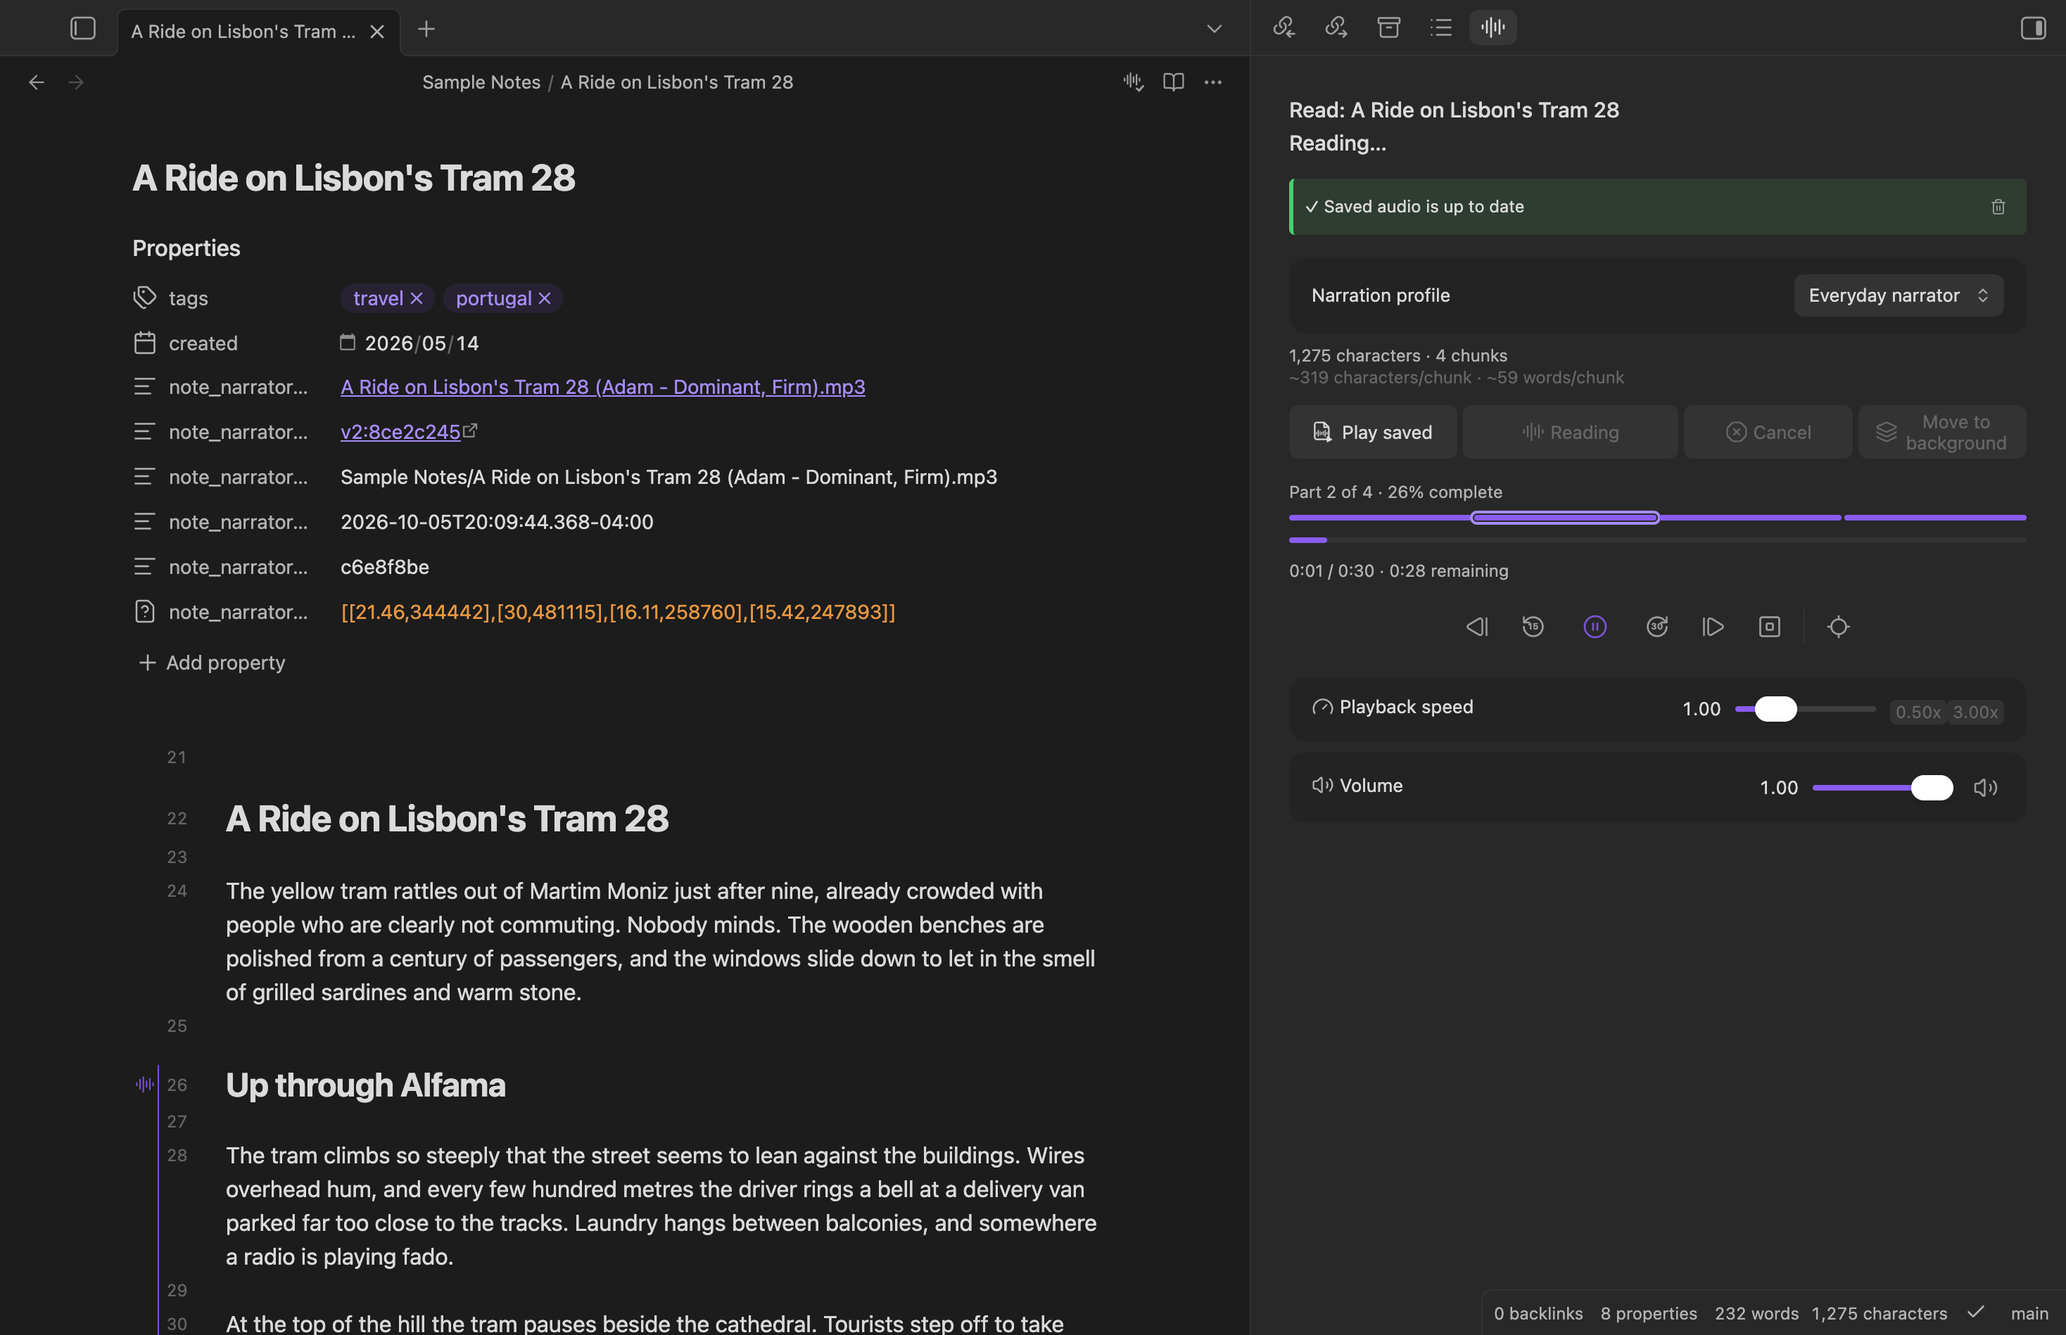
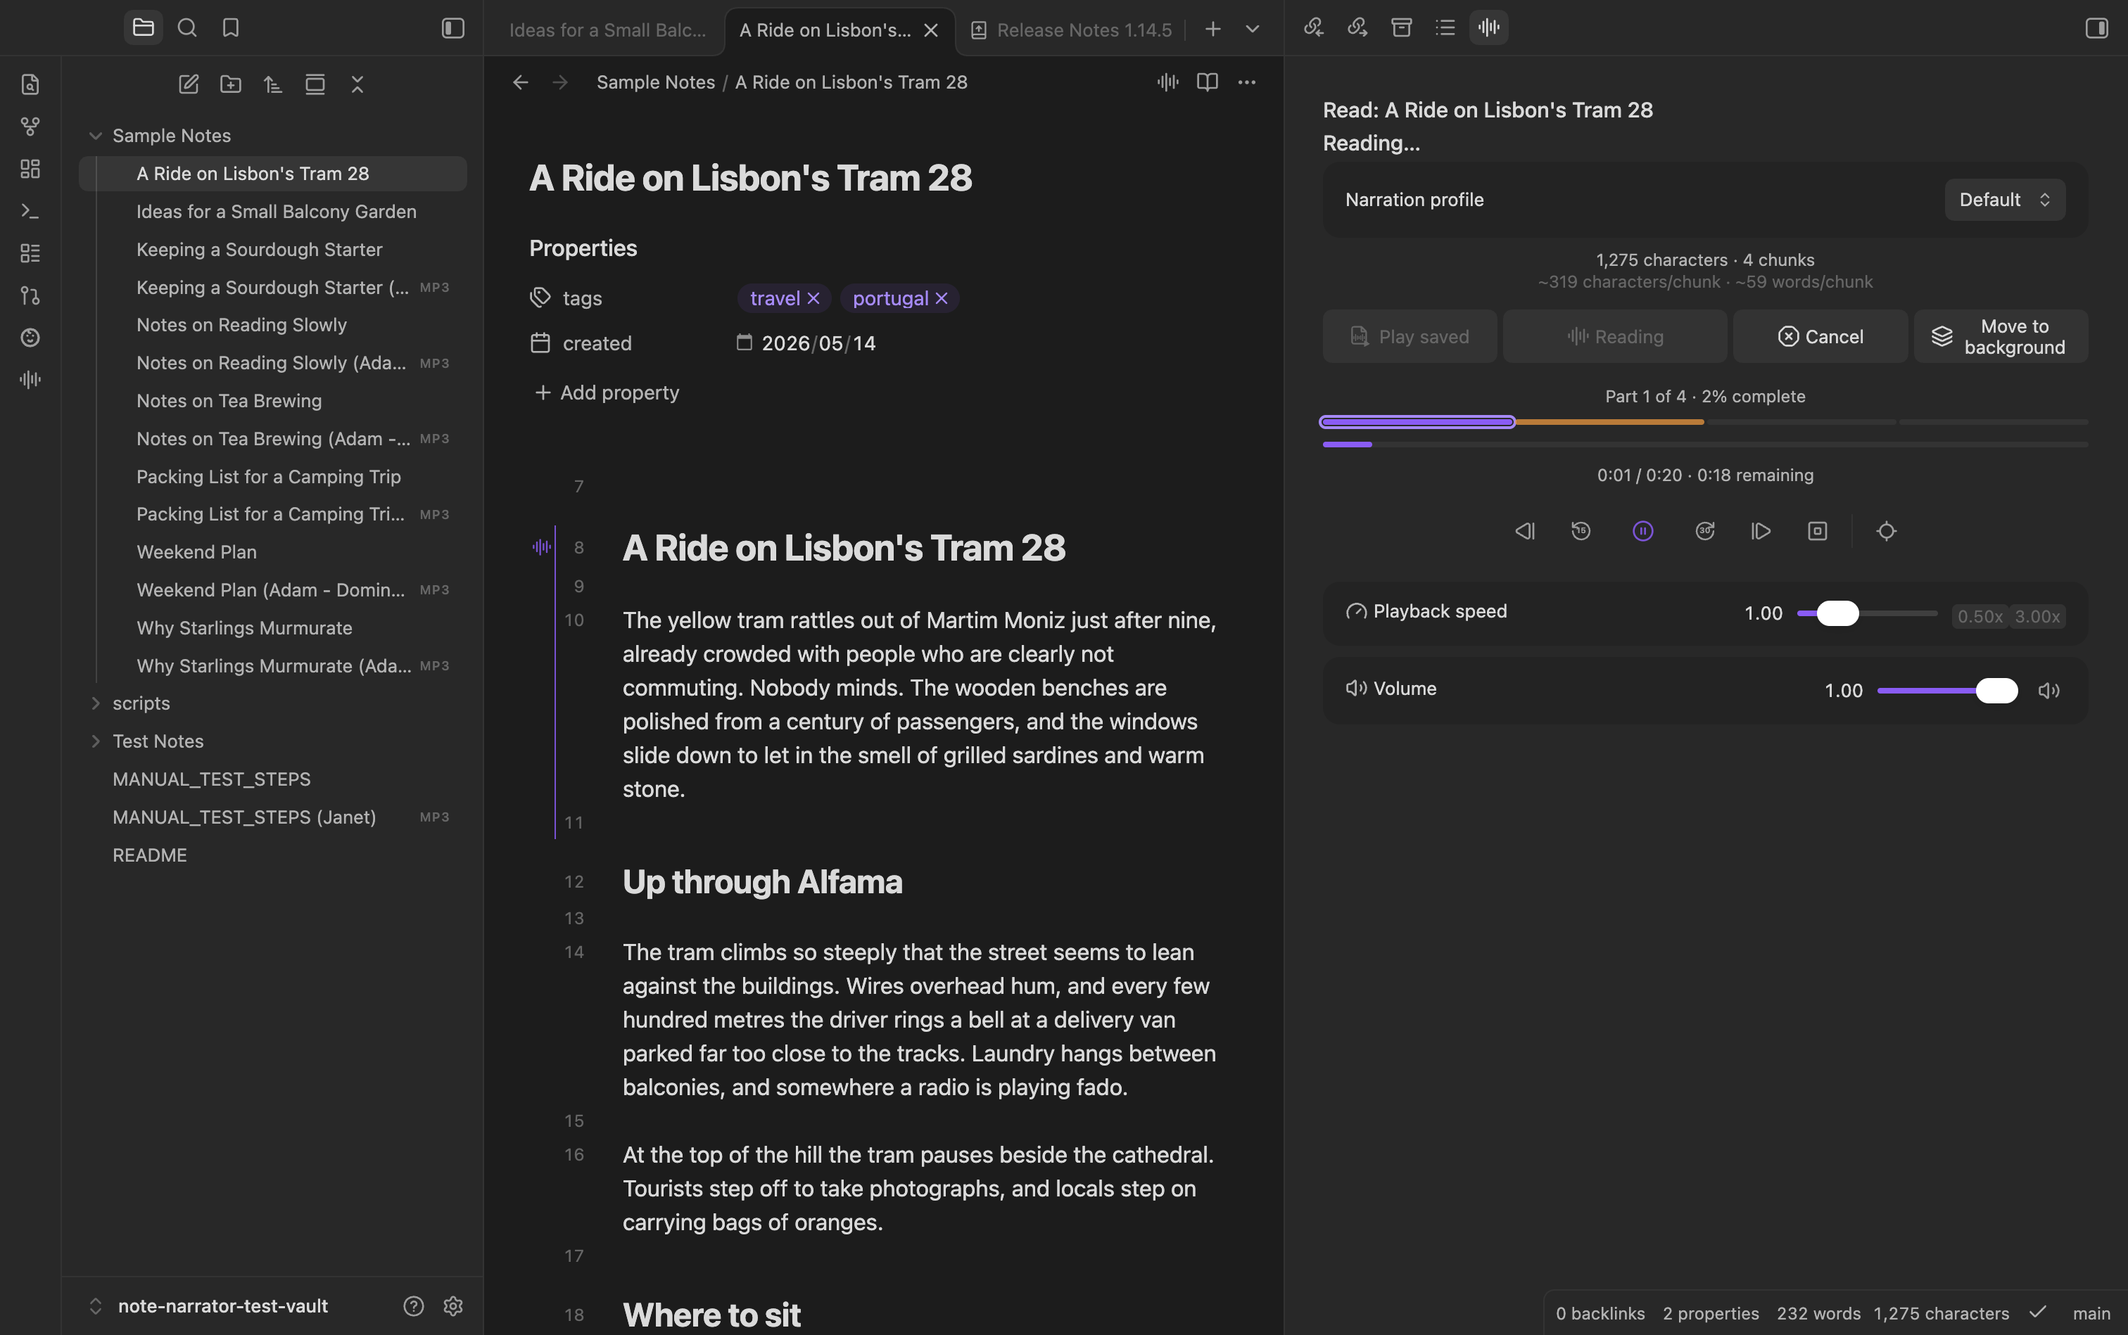
Update docs for 1.1.6
Appearance Settings, Settings Overview and The Panel: the Center panel text
setting. Reading a Note: the title is never read on its own, including
with a comment or rule before the first heading. Saving Audio, General
Settings, Known Limitations, Troubleshooting and Frontmatter Properties:
property edits only mark audio outdated with Read note properties on, and
audio saved before 1.1.6 keeps the old check until regenerated. Roadmap:
1.1.6. Retake the Appearance settings, idle panel, reading panel,
generation bar and hero screenshots for the centered text and new row.

diff --git a/Note Narrator/Using Note Narrator/Saving Audio.md b/Note Narrator/Using Note Narrator/Saving Audio.md
@@ -7,8 +7,8 @@ tags:
   - saved-audio
 publish: true
 permalink: note-narrator/using/saving-audio
-plugin-version: 1.1.5
-updated: 2026-10-09
+plugin-version: 1.1.6
+updated: 2026-10-26
 ---
 
 # Saving Audio
@@ -41,8 +41,11 @@ The hash lets the panel tell you whether the audio still matches the note:
 > [!warning] Saved audio was made with a different narrator
 > The note has not changed, but the selected narrator profile's voice settings differ from the ones the audio was made with. **Read** becomes **Regenerate with new narrator**. Play saved still plays the old audio.
 
-> [!note] Everything counts
-> The hash covers the note's full content, even if you only read a selection, so any edit marks the audio outdated. Note Narrator's own properties are always excluded. Add other properties (for example a last-modified timestamp another plugin updates) to **Extra properties to exclude from staleness hashing**.
+> [!note] What counts as a change
+> The hash covers the note's full text, even if you only read a selection, so any edit to it marks the audio outdated. Properties only count when **Read note properties** is on (for the selected narrator profile), since otherwise they are never heard. Note Narrator's own properties are always excluded. With Read note properties on, add other properties (for example a last-modified timestamp another plugin updates) to **Extra properties to exclude from staleness hashing**.
+
+> [!info] Audio saved before 1.1.6
+> Audio saved by 1.1.0 to 1.1.5 is still checked the way it was saved, so a property edit still marks it outdated even with Read note properties off. Once it's regenerated, property edits stop counting.
 
 ![[panel-saved-status.png]]
 
@@ -51,7 +54,7 @@ The hash lets the panel tell you whether the audio still matches the note:
 **Play saved** plays the file immediately with no generation. Previous/Next part, highlighting and scroll-to-current also work because the saved chunk durations let the file be sliced back into parts.
 
 > [!caution] Only while up to date
-> Part navigation and highlighting during Play saved need the note to be up to date, and the chunk count to still match. If reading or chunking settings changed since the audio was made (chunker style, heading depth, skip patterns, quick start, model), the file plays as one piece. Regenerate to fix it.
+> Part navigation and highlighting during Play saved need the note to be up to date, and the chunk count to still match. If reading or chunking settings changed since the audio was made (chunker style, heading depth, skip patterns, quick start, model), the file plays as one piece. The same happens when an update changes how a note is split: since 1.1.6, a note with only a comment or a `---` line before its first heading reads its title with the first section. Regenerate to fix it.
 
 ## Regenerating
 

diff --git a/Note Narrator/Roadmap/Roadmap.md b/Note Narrator/Roadmap/Roadmap.md
@@ -6,8 +6,8 @@ tags:
   - roadmap
 publish: true
 permalink: note-narrator/roadmap
-plugin-version: 1.1.5
-updated: 2026-10-09
+plugin-version: 1.1.6
+updated: 2026-10-26
 ---
 
 # Roadmap
@@ -17,6 +17,7 @@ updated: 2026-10-09
 
 ## Recently shipped
 
+- **1.1.6: fixes and centered panel text.** The note title is never read on its own as the first part anymore, so playback no longer pauses after it. Before, that happened when only a comment or a `---` line came before the first heading, when the first section was skipped, or when quick start's first part had room for nothing but the title. With **Read note properties** off, editing a property no longer marks saved audio or background notes as outdated, since properties are not heard. A new **Center panel text** setting (on by default) centers the panel's note stats, progress line and time readout. See [[Appearance Settings]].
 - **1.1.5: fixes and disclosure.** Background notes edited since they were generated, or made with another narrator, are marked **Outdated** on their card. A new **Protect audio shared with copied notes** setting (on by default) controls the check that keeps a copied note from overwriting or trashing the original's audio; it's the only time Note Narrator looks at other notes, and it's now described in [[Privacy and Network Use]]. Every dropdown marks its default option, ElevenLabs error messages are kept short, and a development-only dependency was updated for a security advisory.
 - **1.1.4: fixes.** Edit a note while it's being read, or play its outdated saved audio, and **Read** now offers **Regenerate** instead of staying a disabled "Reading". It also comes back as **Read** if you delete the saved audio while it plays. Only an `.mp3` counts as a note's saved audio, so an edited audio path property can no longer get another file overwritten or trashed, and a copy of a note no longer replaces or trashes the audio it shares with the original. Background notes whose audio is saved are freed from memory and play from the vault, and unsaved finished notes are capped by the new **Unsaved finished notes kept in memory** setting (see [[Performance Settings]]). Notes saved with Windows (CRLF) line endings no longer have their properties read aloud or their highlight drift, a property edited just before Read is spoken with its new value, and audio saved by **Auto-generate on open** with quick start on keeps its parts for Previous/Next instead of playing as one piece.
 - **1.1.3: fixes.** Deleting a note while its audio file is being written no longer leaves that file behind or shows a "Failed to save audio file" notice. If you disable the plugin or select **Read** at that moment instead, the finished audio is still saved and linked. Also more automated tests for the panel, the plugin's commands, and folders being moved or deleted.

diff --git a/Note Narrator/Reference/Frontmatter Properties.md b/Note Narrator/Reference/Frontmatter Properties.md
@@ -7,8 +7,8 @@ tags:
   - saved-audio
 publish: true
 permalink: note-narrator/reference/frontmatter-properties
-plugin-version: 1.1.4
-updated: 2026-10-08
+plugin-version: 1.1.6
+updated: 2026-10-26
 ---
 
 # Frontmatter Properties
@@ -18,7 +18,7 @@ When **Link saved audio in the note** is on, Note Narrator writes six properties
 | Property | Contains |
 | --- | --- |
 | `note_narrator_audio` | A wikilink to the saved `.mp3`, so Obsidian shows and tracks it |
-| `note_narrator_audio_hash` | Hash of the note's content when the audio was made, used for [[Saving Audio#Linking and staleness\|staleness]] |
+| `note_narrator_audio_hash` | Hash of the note's content when the audio was made, used for [[Saving Audio#Linking and staleness\|staleness]]. Its prefix is the hash version (`v3:` since 1.1.6), so older audio keeps being checked the way it was saved |
 | `note_narrator_audio_path` | Raw vault path of the file, used internally. Only an `.mp3` path counts: anything else is treated as no saved audio |
 | `note_narrator_audio_timestamp` | When the audio was generated |
 | `note_narrator_audio_voice` | A fingerprint (hash) of the narrator profile's voice settings that made the audio. Notes saved before 0.17 hold the raw ElevenLabs voice ID here, which still counts as a match for that voice |
@@ -29,7 +29,7 @@ When **Link saved audio in the note** is on, Note Narrator writes six properties
 ```yaml
 ---
 note_narrator_audio: "[[My Note (Rachel).mp3]]"
-note_narrator_audio_hash: 4ac88baf
+note_narrator_audio_hash: v3:4ac88baf
 note_narrator_audio_path: Notes/My Note (Rachel).mp3
 note_narrator_audio_timestamp: 2026-09-12T16:24:48.902-04:00
 note_narrator_audio_voice: 9c1f03ab

diff --git a/Note Narrator/Settings/General Settings.md b/Note Narrator/Settings/General Settings.md
@@ -7,8 +7,8 @@ tags:
   - reading
 publish: true
 permalink: note-narrator/settings/general
-plugin-version: 1.1.0
-updated: 2026-10-05
+plugin-version: 1.1.6
+updated: 2026-10-26
 ---
 
 # General Settings
@@ -28,7 +28,7 @@ With **Skip Markdown comments** off, the two comment options below it are greyed
 | **Read selection instead of whole note** | Enabled | never | With a text selection active, reads only the selection |
 | **Read note title** | Enabled | never | Speaks the note's title before its content |
 | **Skip title when it repeats the first heading** | Enabled | never | With Read note title on, skips the title anyway when it exactly matches the note's first heading (any level), so it is not spoken twice. The heading is still read as part of the body |
-| **Read note properties** | Disabled | never | Speaks "properties", each key and value, then "content", before the body. Not used for a selection |
+| **Read note properties** | Disabled | never | Speaks "properties", each key and value, then "content", before the body. Not used for a selection. Also decides whether editing a property marks saved audio outdated (see [[Saving Audio#Linking and staleness]]) |
 | **Skip Markdown comments** | Enabled | never | Strips Obsidian comments (`%% like this %%`) before reading |
 | **Don't read comment delimiter symbols** | Enabled | Skip Markdown comments is on | Never reads the raw `%%` markup aloud, only the text between |
 | **Announce comments as "Comment: ..."** | Enabled | Skip Markdown comments is on | Prefixes a comment's text with "Comment:" |

diff --git a/Note Narrator/Reference/Known Limitations.md b/Note Narrator/Reference/Known Limitations.md
@@ -7,8 +7,8 @@ tags:
   - limitations
 publish: true
 permalink: note-narrator/reference/known-limitations
-plugin-version: 1.1.5
-updated: 2026-10-09
+plugin-version: 1.1.6
+updated: 2026-10-26
 ---
 
 # Known Limitations
@@ -26,7 +26,7 @@ Things that do not work the way you might expect yet. Many have a planned fix on
 
 ## Saved audio
 
-- **Staleness is whole-note.** The hash covers the full note, so editing anything, even outside what was read (for example after reading a selection), marks the audio outdated.
+- **Staleness is whole-note.** The hash covers the note's full text, so editing anything, even outside what was read (for example after reading a selection), marks the audio outdated. Properties only count with **Read note properties** on, except for audio saved before 1.1.6, which counts them until it's regenerated.
 - **Replace keeps the old filename.** With "Replace existing file", a narrator change keeps the original filename (with the old voice name in brackets) and only replaces the contents.
 - **Multi-part files are concatenated bytes.** Chunks are joined without re-muxing the MP3 stream. This works with ElevenLabs output but is not strictly spec-correct MP3 concatenation.
 - **Part navigation can fall back.** During Play saved, if chunk-affecting settings changed since the audio was made, or the byte lengths do not add up, the file plays as a single non-navigable piece even though the note still says "up to date". Regenerate to fix it.

diff --git a/Note Narrator/Using Note Narrator/Reading a Note.md b/Note Narrator/Using Note Narrator/Reading a Note.md
@@ -6,8 +6,8 @@ tags:
   - usage
 publish: true
 permalink: note-narrator/using/reading-a-note
-plugin-version: 1.1.1
-updated: 2026-10-06
+plugin-version: 1.1.6
+updated: 2026-10-26
 ---
 
 # Reading a Note
@@ -36,7 +36,7 @@ In order, the spoken text can include:
 2. **The properties**, if **Read note properties** is on (default off). This says "Properties", then each key and value, then "Content".
 3. **The note body**, minus anything you chose to skip.
 
-The title and properties are spoken as part of the first part of the note, never as a part on their own, so playback flows straight into the note even when it starts with a heading.
+The title and properties are spoken as part of the first part of the note, never as a part on their own, so playback flows straight into the note. That holds when the note starts with a heading, when only a comment or a `---` line comes before its first heading, when its first section is skipped by heading, and for quick start's short first part.
 
 > [!note] Selections
 > With **Read selection instead of whole note** on (default on), an active text selection is read on its own, without the title or properties. Highlighting and scroll-to-current do not apply to selection reads.

diff --git a/Note Narrator/Settings/Appearance Settings.md b/Note Narrator/Settings/Appearance Settings.md
@@ -8,8 +8,8 @@ tags:
   - highlighting
 publish: true
 permalink: note-narrator/settings/appearance
-plugin-version: 1.1.0
-updated: 2026-10-05
+plugin-version: 1.1.6
+updated: 2026-10-26
 ---
 
 # Appearance Settings
@@ -23,6 +23,7 @@ The **Appearance** tab has two groups: **Panel** and **Highlighting**.
 | Setting | Default | What it does |
 | --- | --- | --- |
 | **Compact buttons** | Disabled | Play saved, Read, Cancel and the background button become icon-only with tooltips, at every panel size |
+| **Center panel text** | Enabled | Centers the note stats, the "Part X of Y, Z% complete" line and the time readout. Turn it off to align them left |
 | **Show volume slider in panel** | Enabled | Shows the volume slider and mute button |
 | **Show playback speed slider in panel** | Enabled | Shows the speed slider |
 | **Time display** | Show current part times | **Show full times**, **Show current part times**, or **Show full times + current part times** (full totals with the current part in parentheses). Ungenerated parts show as "+N parts" |

diff --git a/Note Narrator/Using Note Narrator/The Panel.md b/Note Narrator/Using Note Narrator/The Panel.md
@@ -7,8 +7,8 @@ tags:
   - panel
 publish: true
 permalink: note-narrator/using/the-panel
-plugin-version: 1.1.4
-updated: 2026-10-08
+plugin-version: 1.1.6
+updated: 2026-10-26
 ---
 
 # The Panel
@@ -28,6 +28,8 @@ The panel lives in the right sidebar. Open it from the ribbon icon, the note too
 7. **Playback controls.** See [[Playback Controls]].
 8. **Speed and volume.** Live sliders, each can be hidden in settings. See [[Appearance Settings]].
 9. **Background jobs.** Notes queued, generating or finished in the background. Click one to play it. See [[Background Generation]].
+
+The note stats, the "Part X of Y" line and the time readout are centered. Turn off **Center panel text** in [[Appearance Settings]] to align them left.
 
 > [!note] Disabled, not hidden
 > Buttons that do not apply right now (for example Previous part on a single-chunk read, or Play saved when there is no saved audio) are shown disabled rather than removed, so the layout does not jump around.

diff --git a/Note Narrator/Reference/Troubleshooting and FAQ.md b/Note Narrator/Reference/Troubleshooting and FAQ.md
@@ -7,8 +7,8 @@ tags:
   - faq
 publish: true
 permalink: note-narrator/reference/troubleshooting
-plugin-version: 1.0.0
-updated: 2026-09-27
+plugin-version: 1.1.6
+updated: 2026-10-26
 ---
 
 # Troubleshooting and FAQ
@@ -43,7 +43,7 @@ Highlighting needs the note open in **Editing view**, and **Highlight while read
 
 ## It says "Saved audio is outdated" but I only changed a little
 
-Any change to the note, anywhere, marks audio outdated. Exclude noisy properties with **Extra properties to exclude from staleness hashing**. See [[Saving Audio]].
+Any change to the note's text, anywhere, marks audio outdated. Property edits only count with **Read note properties** on (or for audio saved before 1.1.6, until it's regenerated). With it on, exclude noisy properties with **Extra properties to exclude from staleness hashing**. See [[Saving Audio]].
 
 ## Previous and Next part do not work during Play saved
 

diff --git a/Note Narrator/Settings/Settings Overview.md b/Note Narrator/Settings/Settings Overview.md
@@ -6,8 +6,8 @@ tags:
   - settings
 publish: true
 permalink: note-narrator/settings/overview
-plugin-version: 1.1.0
-updated: 2026-10-05
+plugin-version: 1.1.6
+updated: 2026-10-26
 ---
 
 # Settings Overview
@@ -49,6 +49,7 @@ Open **Settings, Note Narrator**. A tab bar at the top switches between six sect
 | Text chunker / Max heading depth | Markdown-aware / 2 |
 | Default playback speed | 1x |
 | Compact buttons | Disabled |
+| Center panel text | Enabled |
 | Show volume / speed slider | Enabled / Enabled |
 | Time display | Current part |
 | Background job display | Minimal card |

diff --git a/Note Narrator/Getting Started/Quick Start.md b/Note Narrator/Getting Started/Quick Start.md
@@ -6,8 +6,8 @@ tags:
   - getting-started
 publish: true
 permalink: note-narrator/getting-started/quick-start
-plugin-version: 1.0.0
-updated: 2026-09-27
+plugin-version: 1.1.6
+updated: 2026-10-26
 ---
 
 # Quick Start

diff --git a/Note Narrator/Note Narrator.md b/Note Narrator/Note Narrator.md
@@ -8,8 +8,8 @@ aliases:
   - Note Narrator docs
 publish: true
 permalink: note-narrator
-plugin-version: 1.1.0
-updated: 2026-10-05
+plugin-version: 1.1.6
+updated: 2026-10-26
 ---
 
 # Note Narrator
